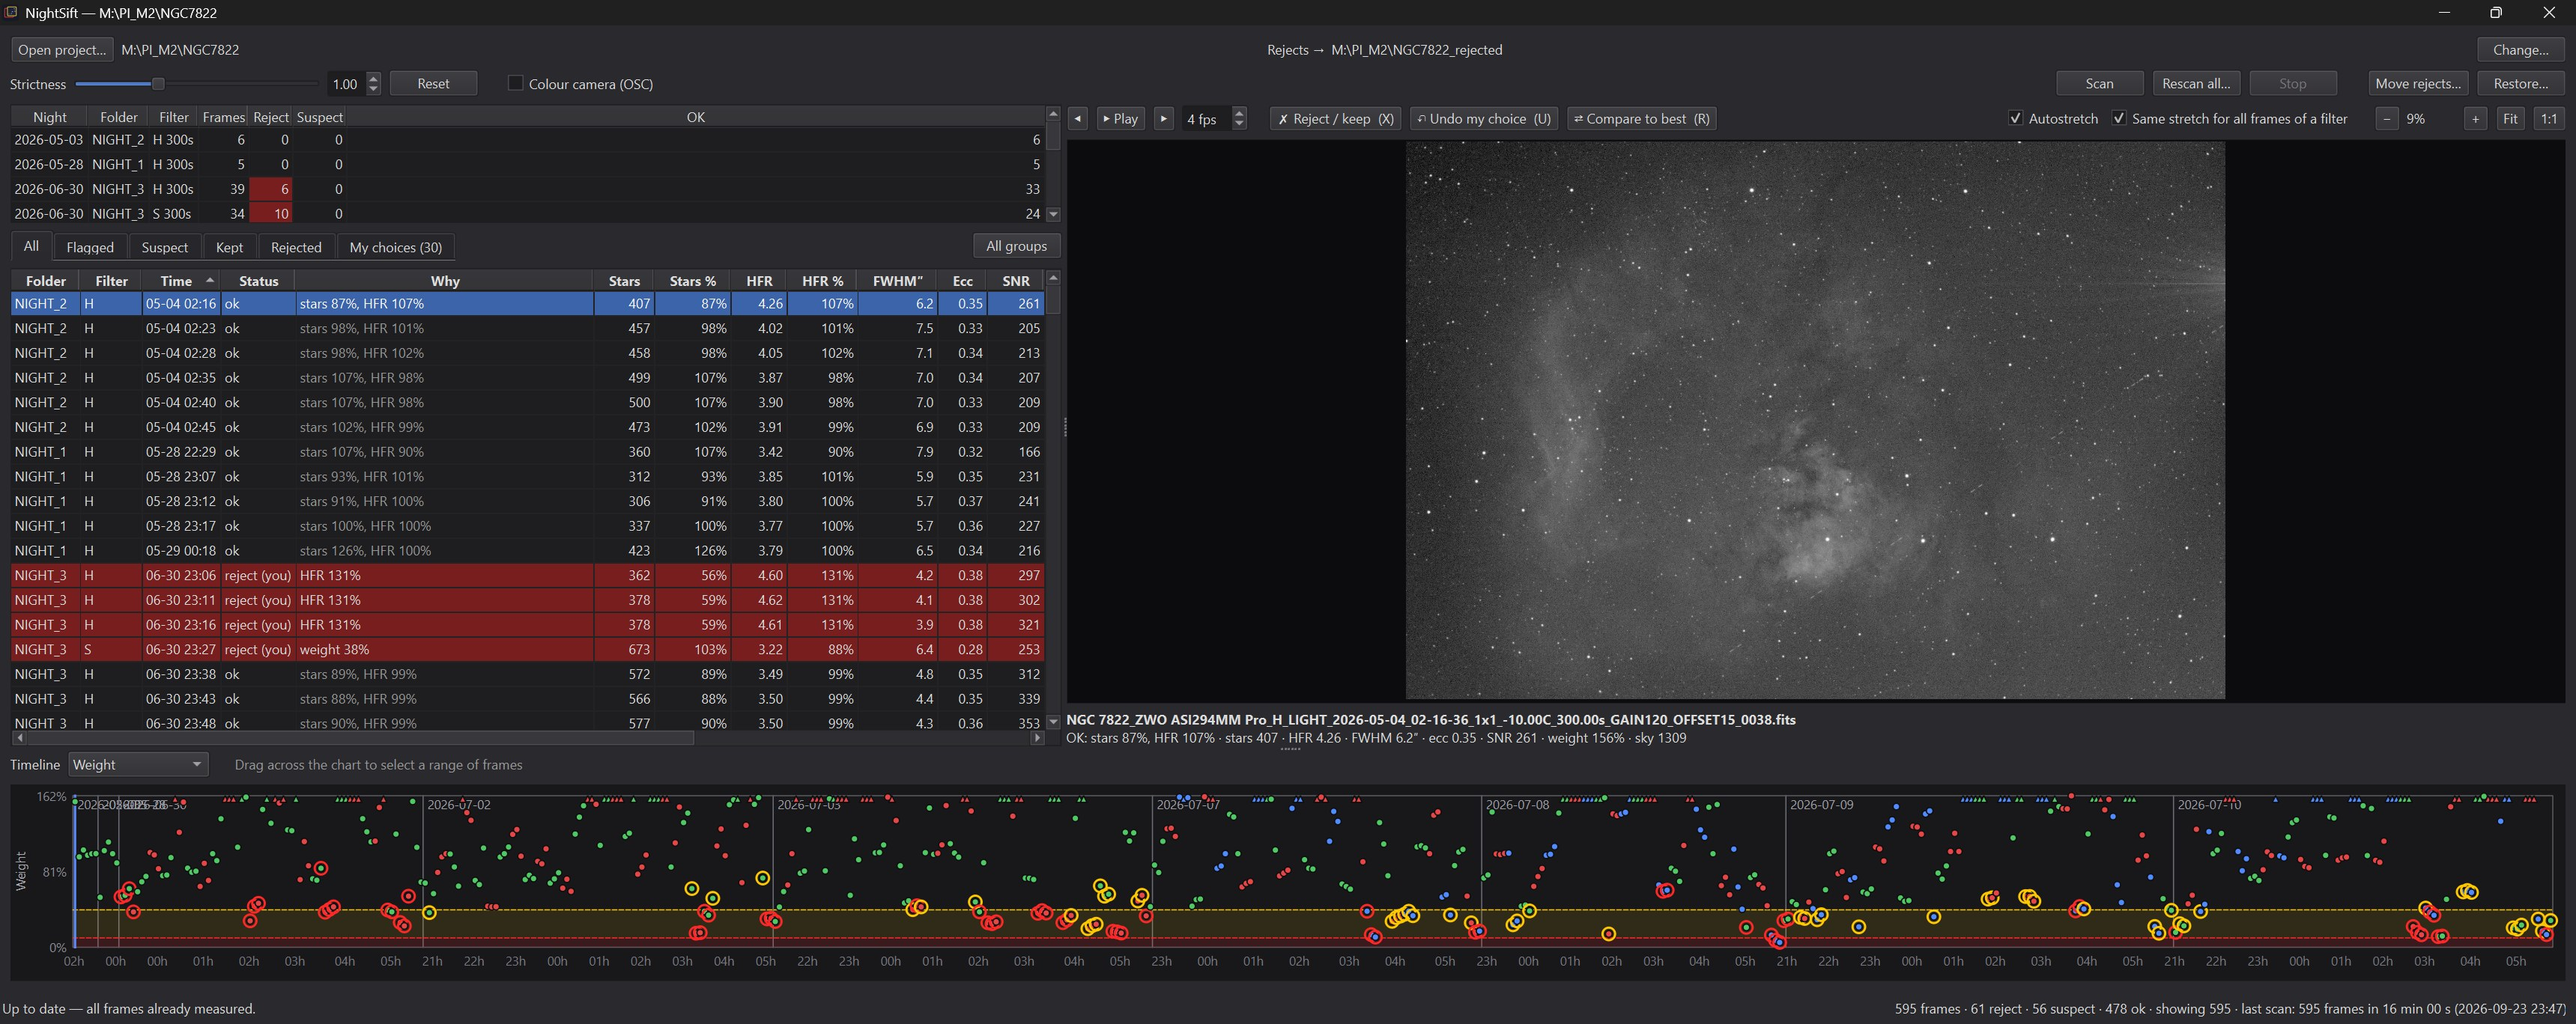
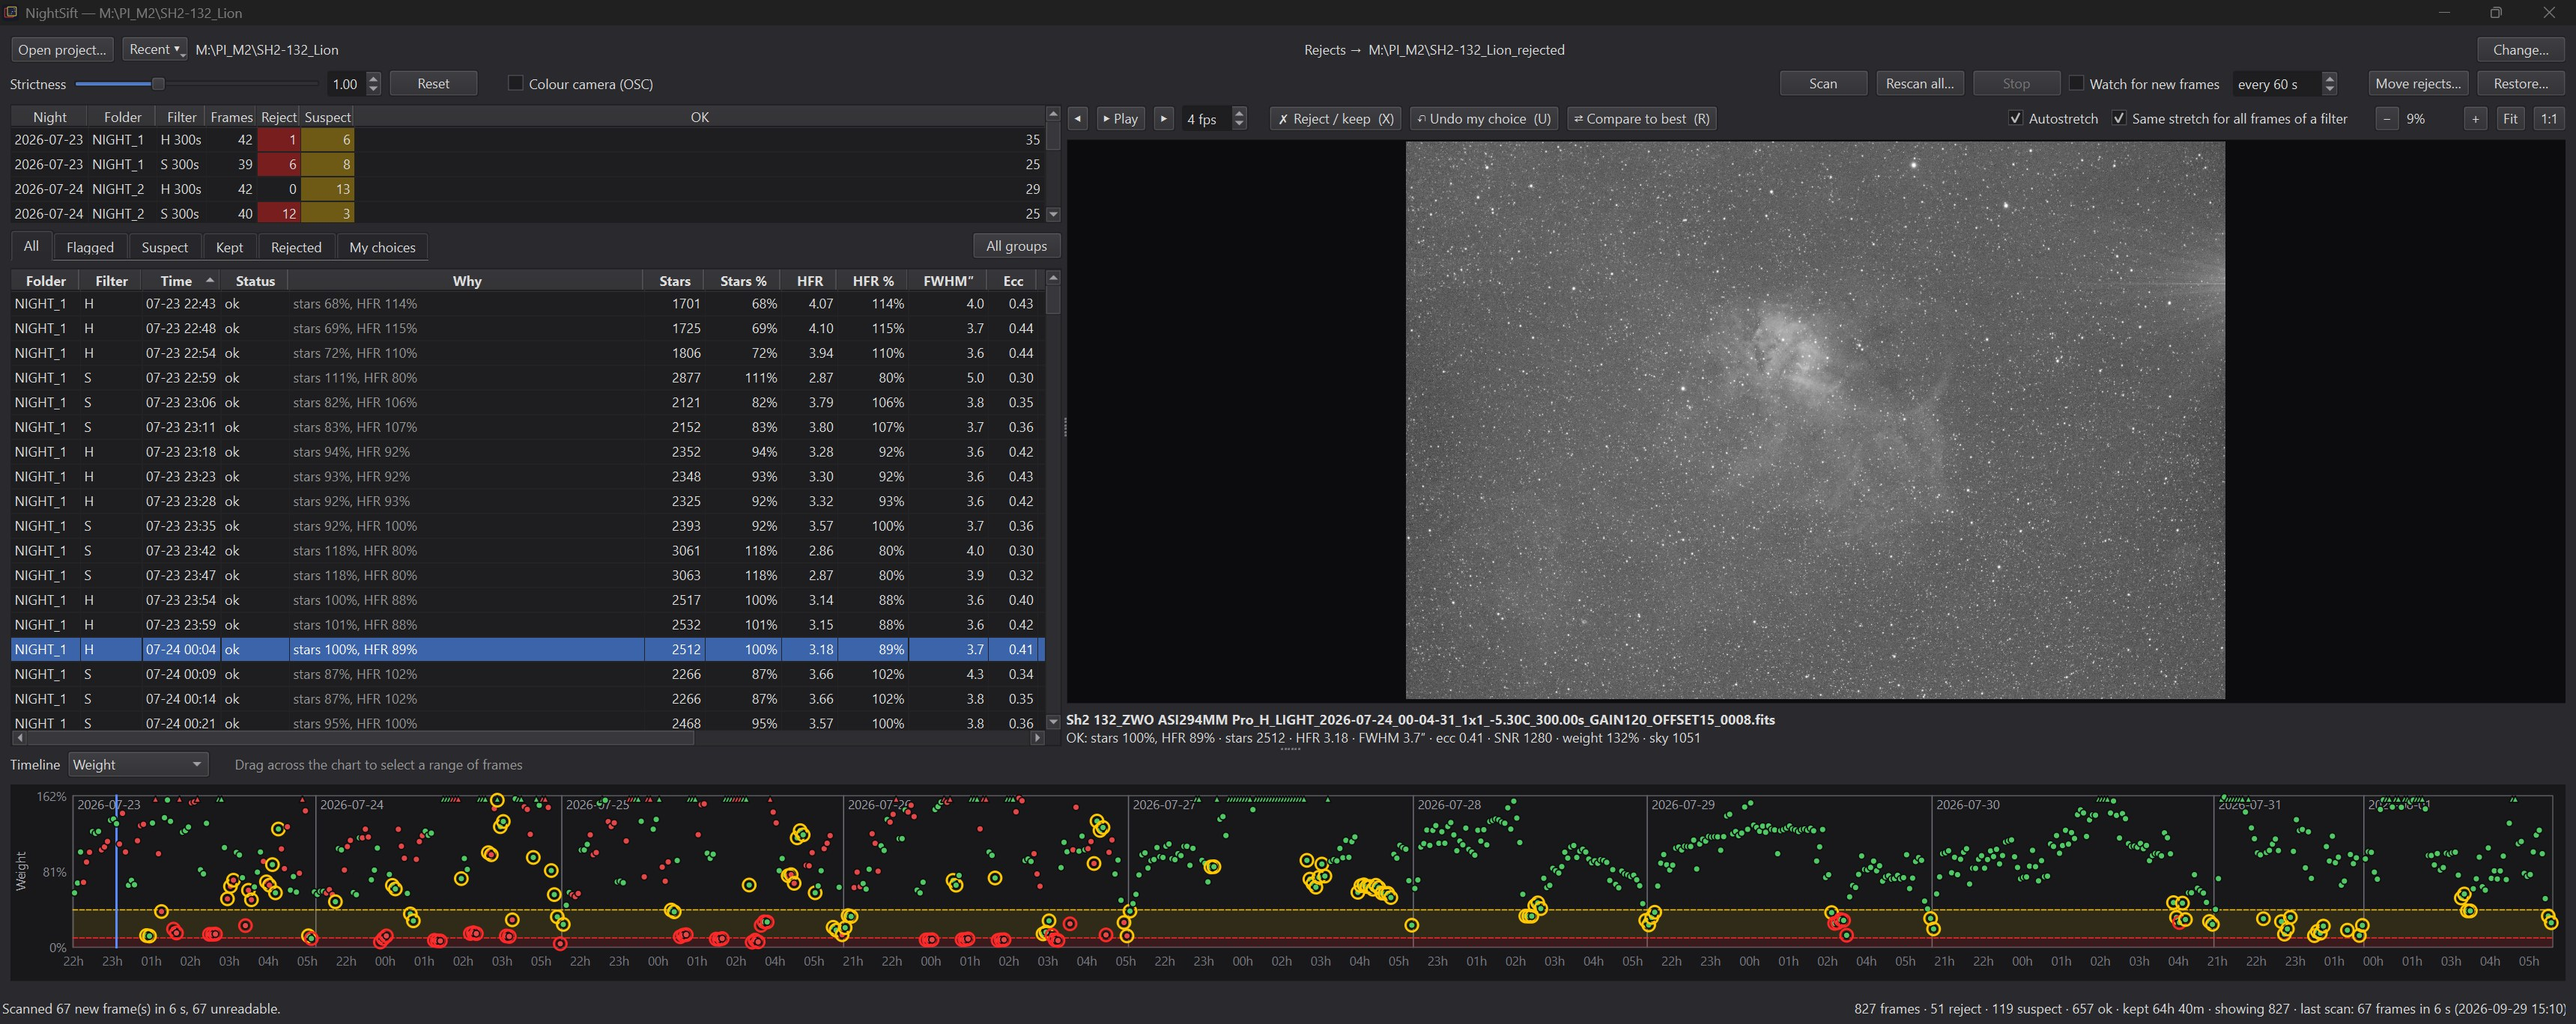
Project page: new screenshot (Sh2-132, watch mode and integration time visible)

diff --git a/docs/index.html b/docs/index.html
@@ -105,8 +105,8 @@ left is to look over the suspects.
 </p>
 
 <figure>
-  <a href="screenshot.jpg"><img src="screenshot.jpg" alt="NightSift main window: frame table on the left, the selected sub on the right, and a weight-over-time chart across the bottom with rejected frames circled in red and suspect ones in yellow." width="3439" height="1368"></a>
-  <figcaption>About 600 Ha and SII frames of NGC 7822 over several nights. Red rings are rejects, yellow rings are frames worth a second look.</figcaption>
+  <a href="screenshot.jpg"><img src="screenshot.jpg" alt="NightSift main window: frame table on the left, the selected sub on the right, the Watch for new frames option at the top right, and a weight-over-time chart across the bottom with rejected frames circled in red and suspect ones in yellow." width="3439" height="1368"></a>
+  <figcaption>827 Ha and SII frames of Sh2-132, the Lion Nebula, over ten nights. Red rings are rejects, yellow rings are frames worth a second look. The status bar shows 64 h 40 m of integration kept.</figcaption>
 </figure>
 
 <h2>What it does</h2>
